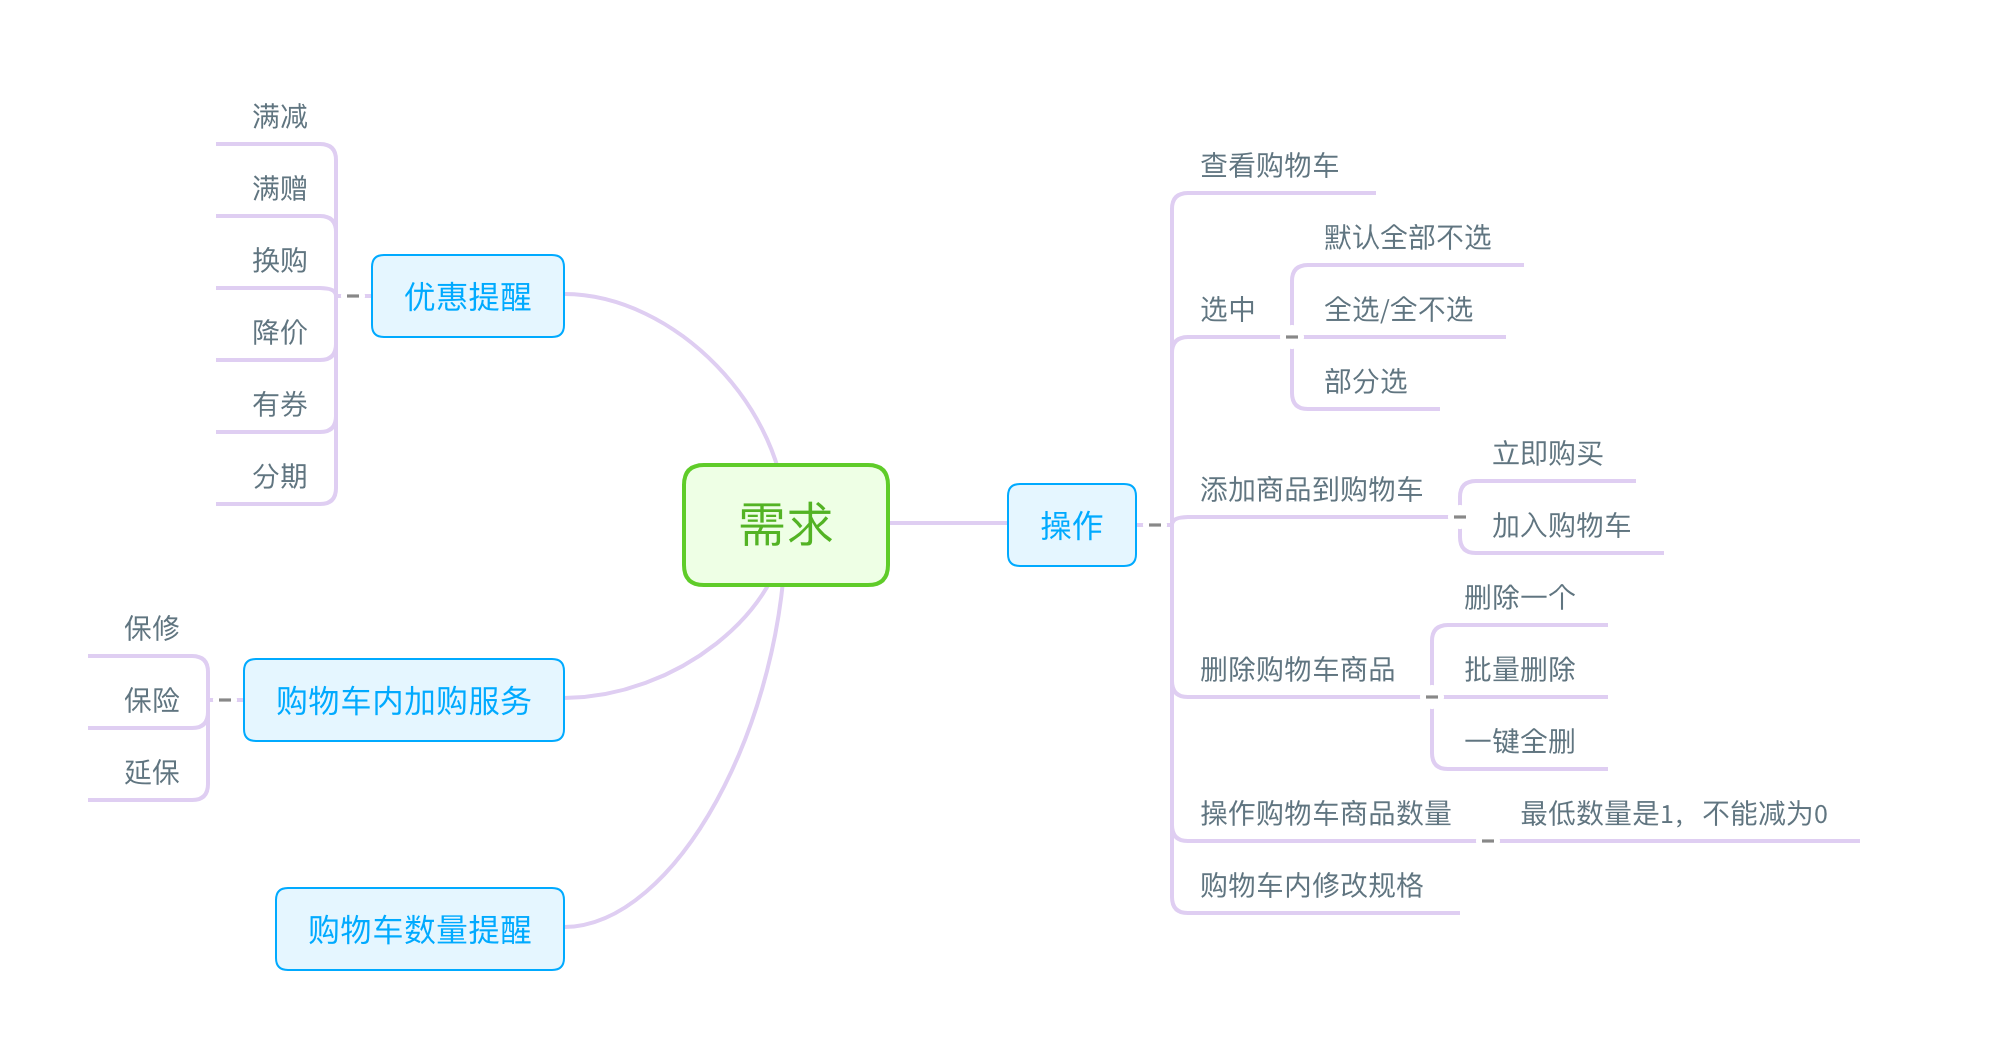
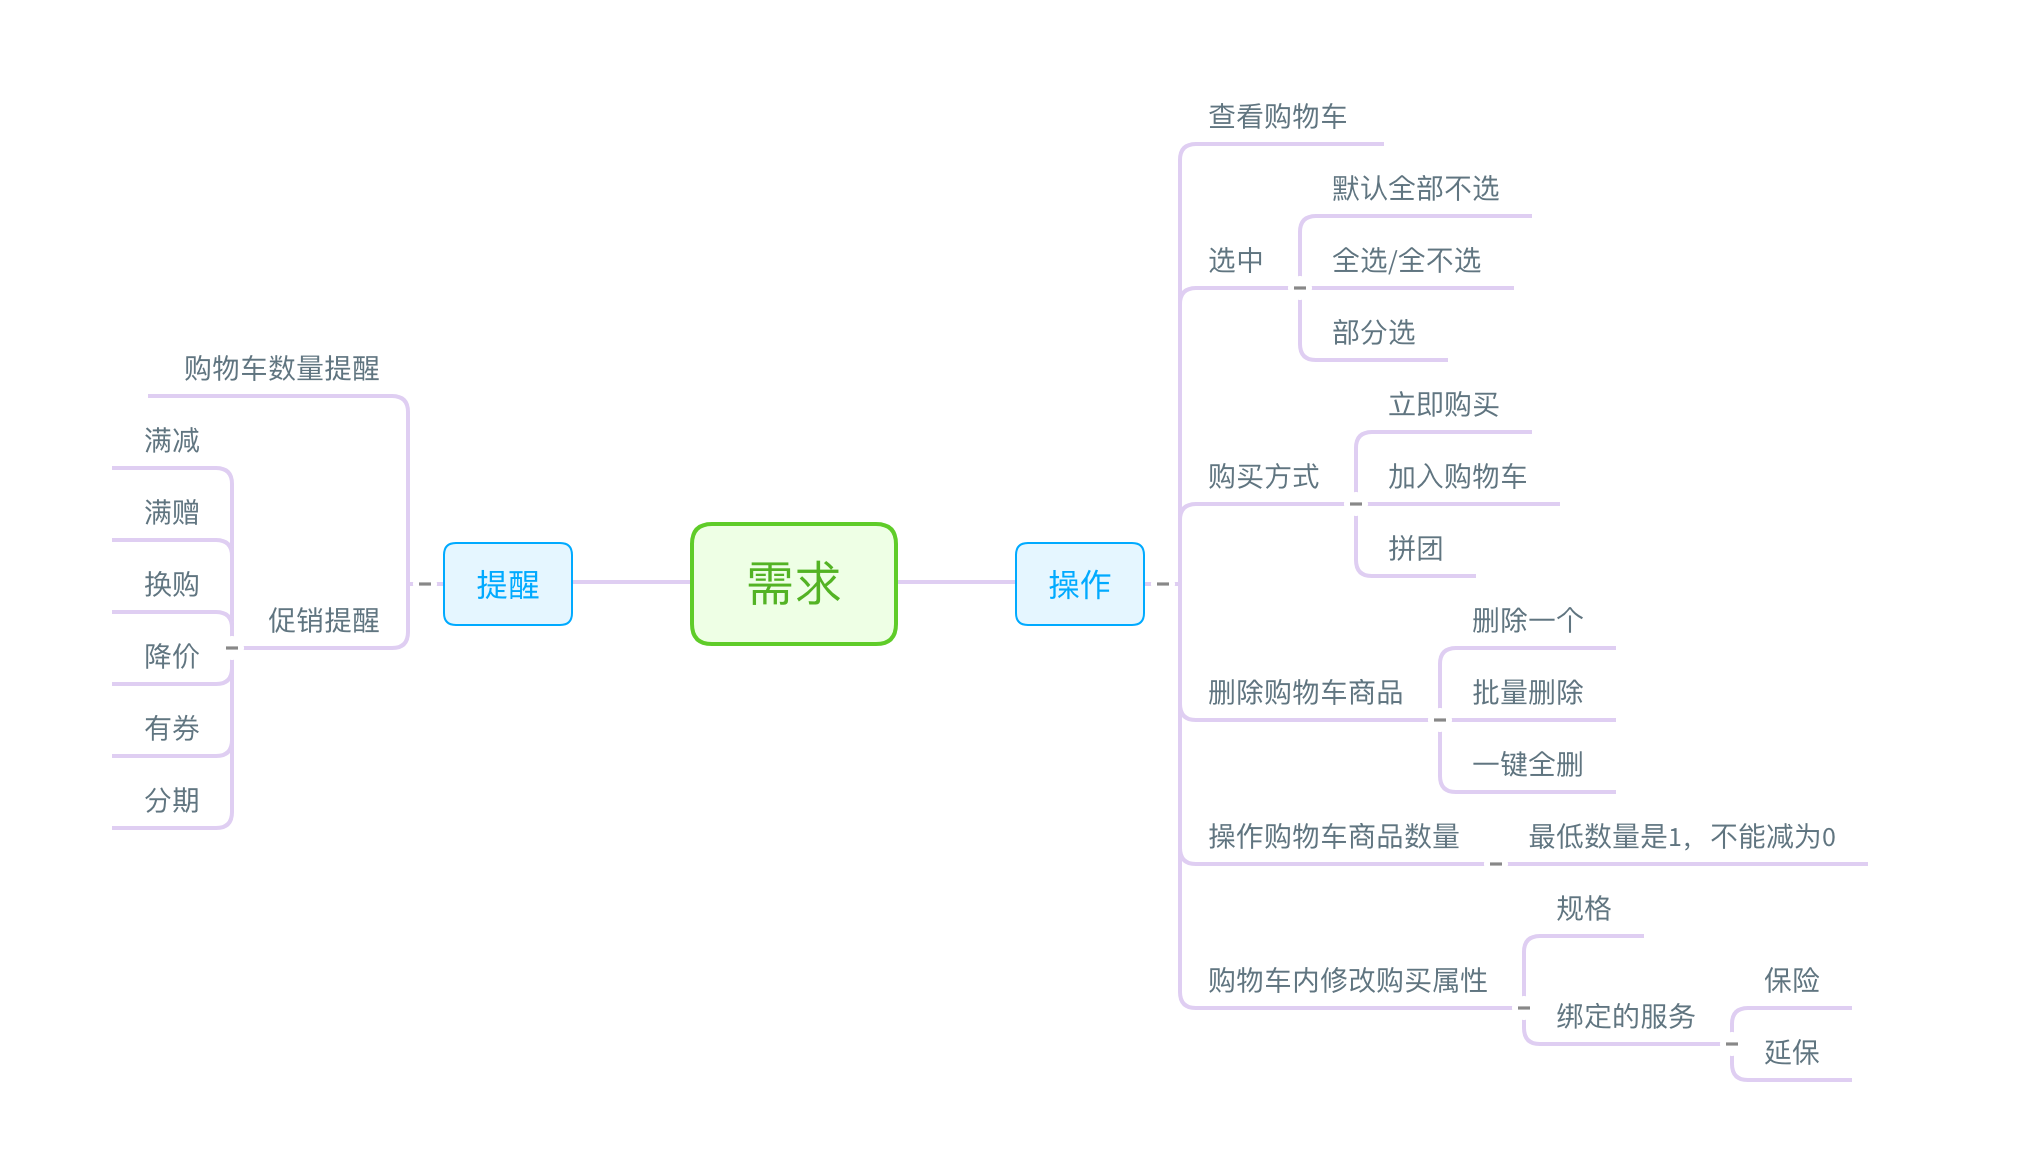
update doc

diff --git a/material/Dayu/cart/cart-requirement.md b/material/Dayu/cart/cart-requirement.md
@@ -34,9 +34,35 @@
 
 个人认为这两种方式并无谁具备明显优势，完全是一种基于业务模式以及团队情况来做选择。我们这里后续的设计会基于在服务端保存商品选中状态。
 
-## 购物车内加购服务
+在整个操作逻辑中，有个两个比较重要的地方单独说明一下：购买方式与购物车内修改购买属性
 
-该操作也是随着商业模式进一步发展而演化来的。最常见的情况是，我们买一个手机。厂家提供了延保、各种其它附加服务，一般情况这种服务都是虚拟商品。但是这有个特殊情况。这些保障服务首先不能单独购买，其次他是跟主商品的数量息息相关。比如买两个手机，如果选择了加够服务，那么这些服务的数量必须是2，这会是一个联动关系。
+### 购买方式
+
+主要的购买方式有立即购买、加入购物车、拼团购两种方式。
+
+首先普通的加入购物车没什么太多要说的。重点来看下立即购买与拼团。
+
+立即购买在于操作上来说就是选择商品后直接到了订单确认页面，没有购物车中去结算这一步。但是它的实现确可以依赖购物车的逻辑来做，我们来看一下使用购物车与不使用购物车实现这个逻辑有什么差别？
+
+如果使用购物车来实现，也就是用户点击立即购买时，商品本质上还是加入到购物车中，但这个购物车却与原型的购物车不同，因为该购物车只能加一个商品，并且每次操作都会被覆盖。在视角效果上也是直接从商品详情页面跳转到订单确认页面。来看看这种方式的好处
+
+1. 与购物车在订单确认、下单逻辑上一致，内部可以直接通过购物车获取数据
+2. 需要一个独立的专门用于一键购买的购物车来实现，内存有消耗
+
+另外一种实现方式使用一个新的数据结构，因为一般来说一键购买更简单，它只需要商品信息、价格信息即可。每次交互均可以根据sku_id来获取。
+
+1. 订单确认、下单逻辑上需要进行改造，每次请求之间要传递约定参数
+2. 节省内存，上下交互通过sku_id来保证
+
+我们会采用使用在服务端一键购买以独立的购物车形式来实现。购物车的数据模型一致，保证了后续处理流程上的一致。
+
+对于拼团，他其实分为两部分，首先先发团这个信息，当团成立后。我们可以选择将成团的商品加入普通购物车，同时可以加够其它商品。也可以选择将成团商品加入一键购买的购物车，保证成团商品只能买一个。拼团模式更像是加入购物车的一个前置条件。本质上它对于购物车的设计没有影响。
+
+### 购物车内修改购买属性
+
+这里主要是指可以在购物车便捷的操作一些需要在spu纬度操作的事情，比如：变更规格（也就是更换sku），以及选择绑定到spu纬度的服务（保险、延保等）。
+
+我们重点说一下选择绑定的服务。例如：我们买一个手机，厂家提供了延保、各种其它附加服务，一般情况这种服务都是虚拟商品。但是这有个特殊情况。这些保障服务首先不能单独购买，其次他是跟主商品的数量息息相关。比如买两个手机，如果选择了加够服务，那么这些服务的数量必须是2，这会是一个联动关系。
 
 这些保障服务是不能进行单独购买的，它一定要跟特定的商品捆绑销售。
 
@@ -46,7 +72,9 @@
 
 ## 提醒
 
-提醒有两部分，首先是购物车之外的，提供购物车有多少件商品。一般来说进入到APP就会调用一个接口，获取用户的未读消息数、购物车商品数等。这里是需要非常高的读取速度。那么这种需求该如何满足呢？
+促销提醒很简单，返回的购物车数据，每一个商品应该携带当前的促销信息。这部分重点在于怎么获取促销信息，会在服务端看到。
+
+然后说下购物车数量的提醒，也就是显示当前购物车商品的数量。一般来说进入到APP就会调用一个接口，获取用户的未读消息数、购物车商品数等。这里是需要非常高的读取速度。那么这种需求该如何满足呢？
 
 **方案一：** 我们可以设计一个结构保存了用户相关的这种提醒信息数量，每次直接读取这个数据即可。不需要去跟消息服务、购物车服务打交道拿这些数据。
 
@@ -127,7 +155,7 @@
 
 ![商品-活动](./imgs/product-activity.png)
 
-## 其它
+## 失效与排序
 
 还有两个小部分没有讲到，一是商品该如何失效，比如：库存没有了、下架了；二是购物车中的商品是多个店铺的，排序的策略是什么？
 
